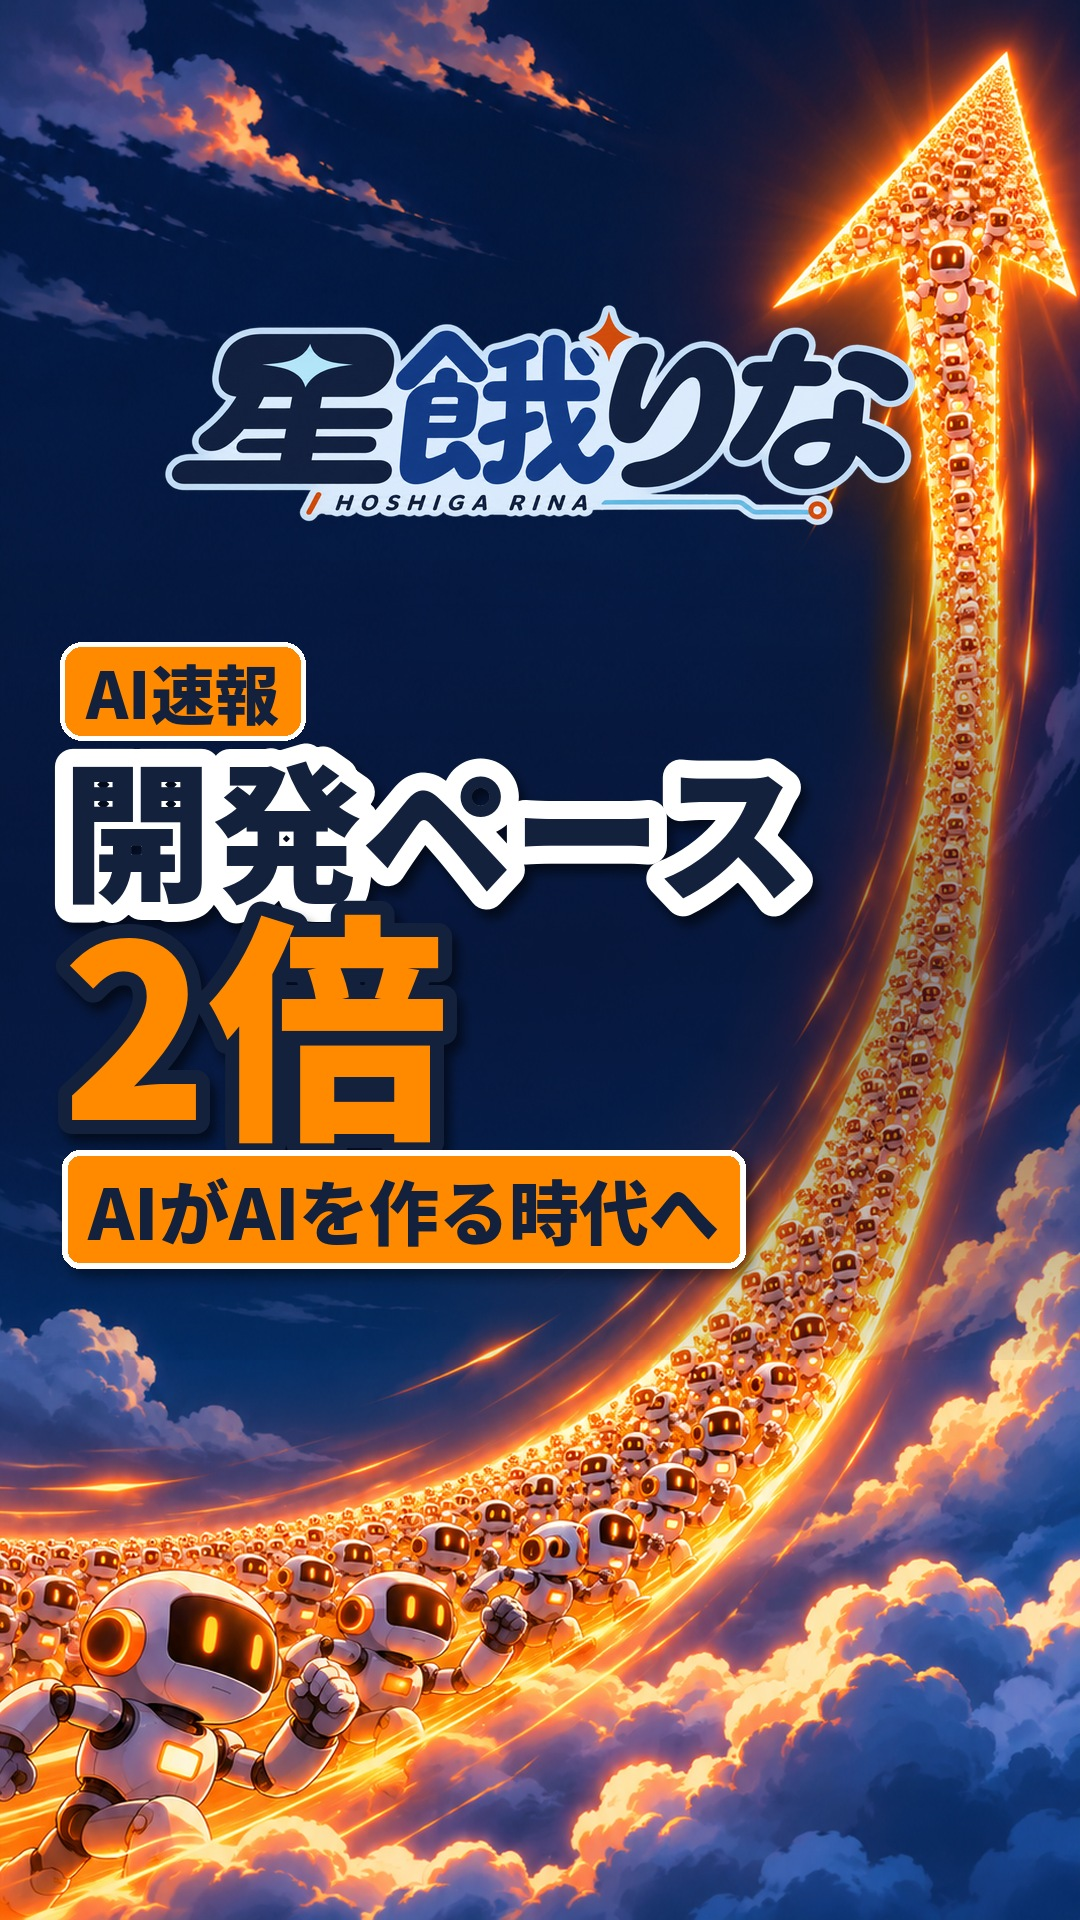
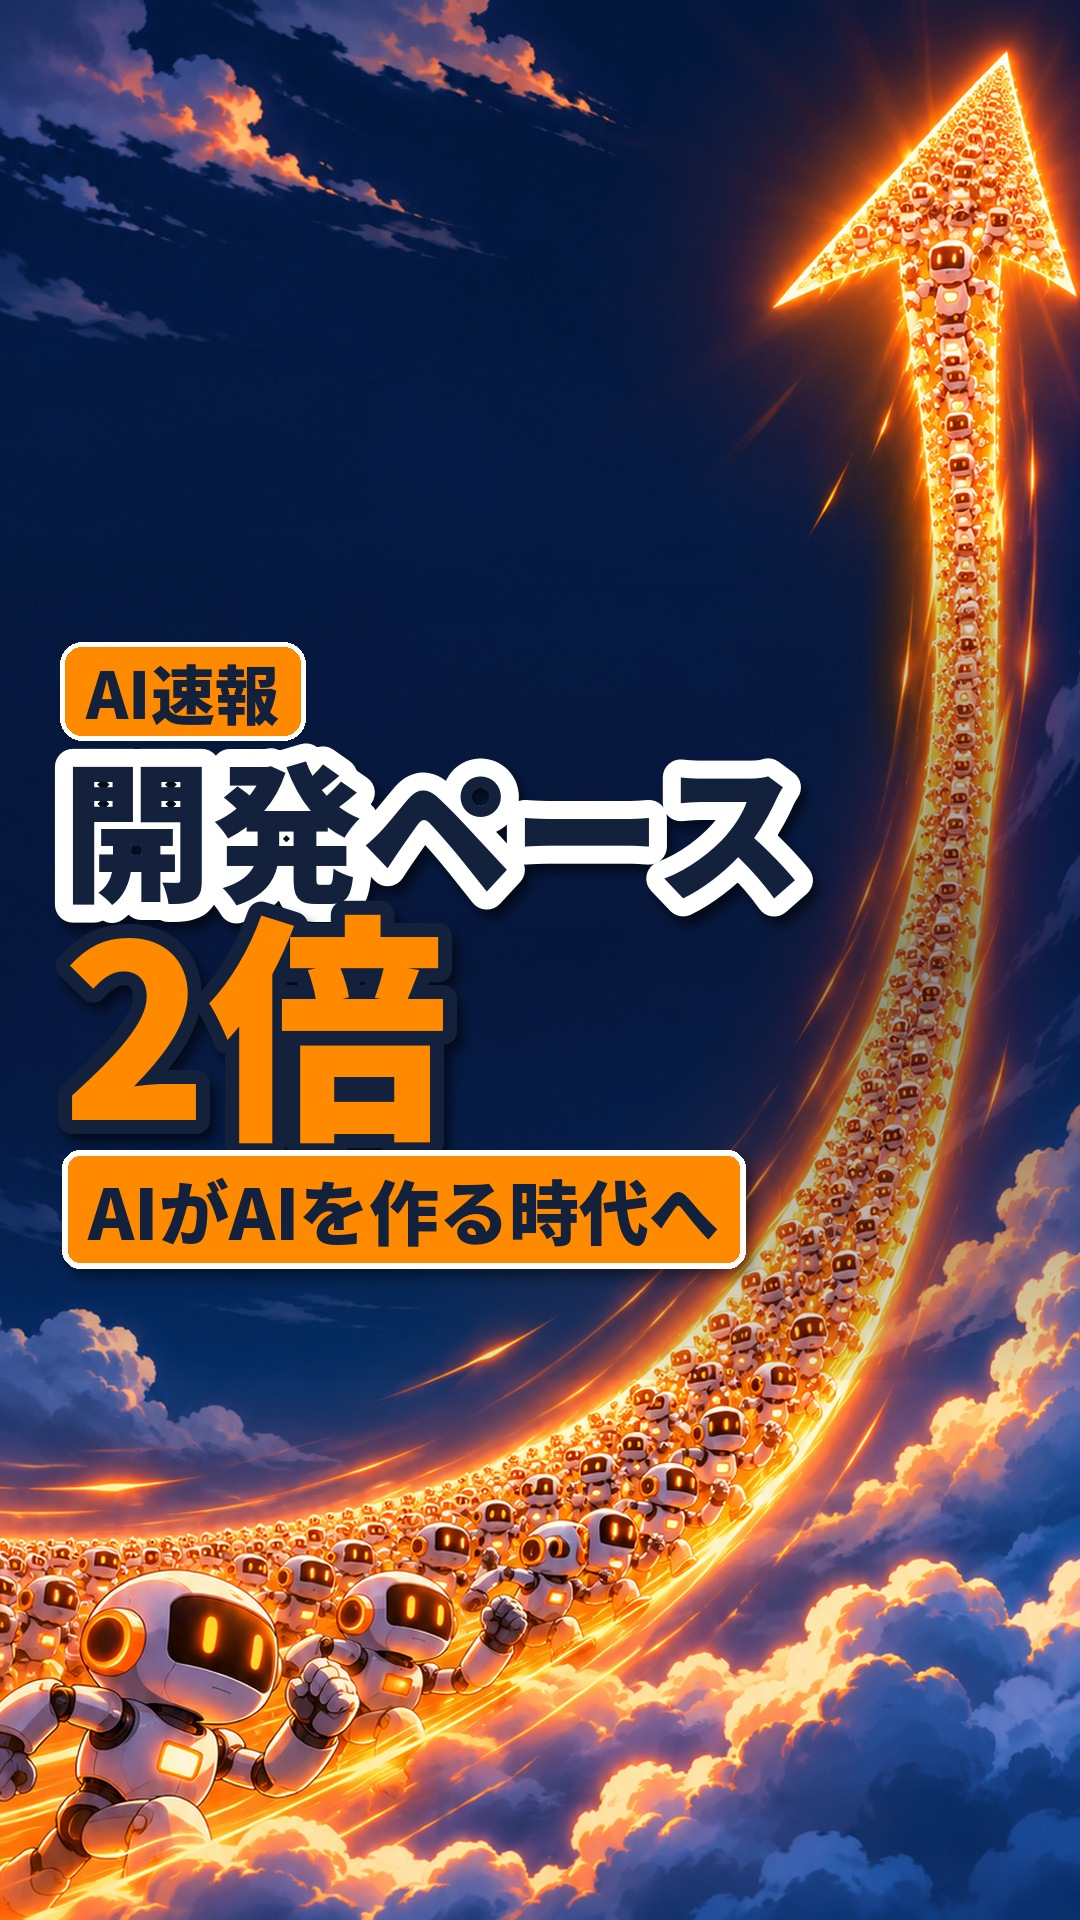
サムネ4案を作り直し（ロゴなし・上下を背景の絵で埋める構図）
Claude-Session: https://claude.ai/code/session_01GPumfm7cRXThygBZ89PTC1

Changed region(s): [[0.1528, 0.1562, 0.8556, 0.2812]]

diff --git a/tools/thumbnail_rules.md b/tools/thumbnail_rules.md
@@ -3,11 +3,12 @@
 ## 方針
 - 目的はクリックしてもらうこと。星餓りなは「人物が要る」と判断したときだけ入れる。入れるときは立ち絵の流用ではなく、サムネ用に生成した星餓りなのイラスト（channel/rina_assets/ にためて再利用）を使う。
 - 焦点は1つ。1秒で「何の動画か」分かること。要素は「主役（顔 or 物）＋主コピー＋ラベル」の3つまで。
+- ロゴ・チャンネル名は入れない（目的はクリックしてもらうことで、名前を覚えてもらうことではない）。
 - 中身と一致させる（釣りは視聴時間テストで負け、ポリシー違反にもなる）。サムネの約束は動画の冒頭で見せる。
 
 ## ショート（9:16, 1080x1920 で作業）
 - 見える窓＝中央3:2（y=600〜1320）。顔・主コピー・ロゴ・ラベルは安全域 x=54〜1026, y=636〜1284 の中だけ。
-- 窓の外は背景の続きや飾りだけ（無くても困らないもの）。
+- 窓の外は背景の続きや飾りだけ（無くても困らないもの）。ただし縦長で見られても間延びしないよう、背景の見どころ（話題を表す絵・集中線など）を上下に置いて埋める。
 - 型：窓の左上にオレンジ角丸ラベル（2〜4字：速報・新製品・価格・比較・注意・便利）／左に主コピー（紺・極太ゴシック・白縁、6〜10字・2行まで）／その下にオレンジの帯／右に顔（窓の高さの60〜80%）、視線・指差しは左の文字へ。
 - 16:9 を作るときは右下（幅30%×高さ25%）に文字を置かない。
 
